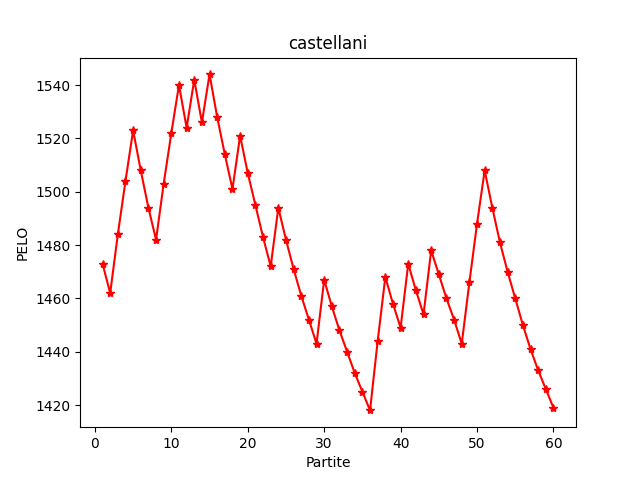
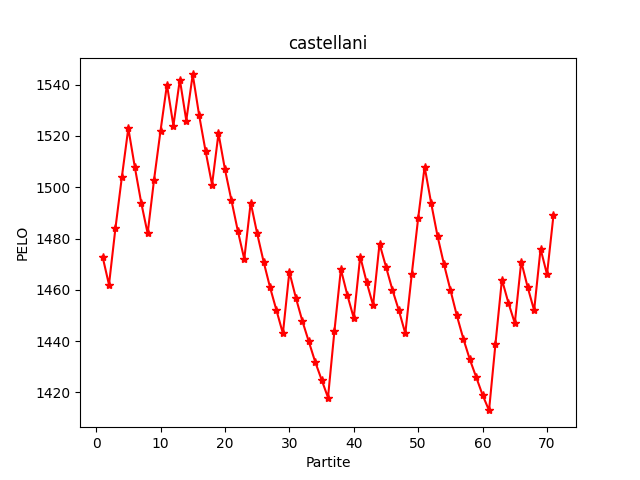
Add files via upload

diff --git a/index.htm b/index.htm
@@ -36,11 +36,11 @@
     <tr>
       <th>2</th>
       <td><a href='zontini.png'>zontini</a></td>
-      <td>1652</td>
-      <td>115</td>
-      <td>62</td>
-      <td>1163</td>
-      <td>1111</td>
+      <td>1593</td>
+      <td>126</td>
+      <td>68</td>
+      <td>1273</td>
+      <td>1211</td>
     </tr>
     <tr>
       <th>3</th>
@@ -71,6 +71,15 @@
     </tr>
     <tr>
       <th>6</th>
+      <td><a href='castellani.png'>castellani</a></td>
+      <td>1489</td>
+      <td>232</td>
+      <td>95</td>
+      <td>2120</td>
+      <td>2365</td>
+    </tr>
+    <tr>
+      <th>7</th>
       <td><a href='vitali.png'>vitali</a></td>
       <td>1485</td>
       <td>1</td>
@@ -79,7 +88,7 @@
       <td>11</td>
     </tr>
     <tr>
-      <th>7</th>
+      <th>8</th>
       <td><a href='scaglia.png'>scaglia</a></td>
       <td>1451</td>
       <td>13</td>
@@ -88,22 +97,13 @@
       <td>138</td>
     </tr>
     <tr>
-      <th>8</th>
+      <th>9</th>
       <td><a href='tronza.png'>tronza</a></td>
       <td>1443</td>
       <td>6</td>
       <td>1</td>
       <td>51</td>
       <td>64</td>
-    </tr>
-    <tr>
-      <th>9</th>
-      <td><a href='castellani.png'>castellani</a></td>
-      <td>1419</td>
-      <td>221</td>
-      <td>90</td>
-      <td>2020</td>
-      <td>2255</td>
     </tr>
     <tr>
       <th>10</th>
